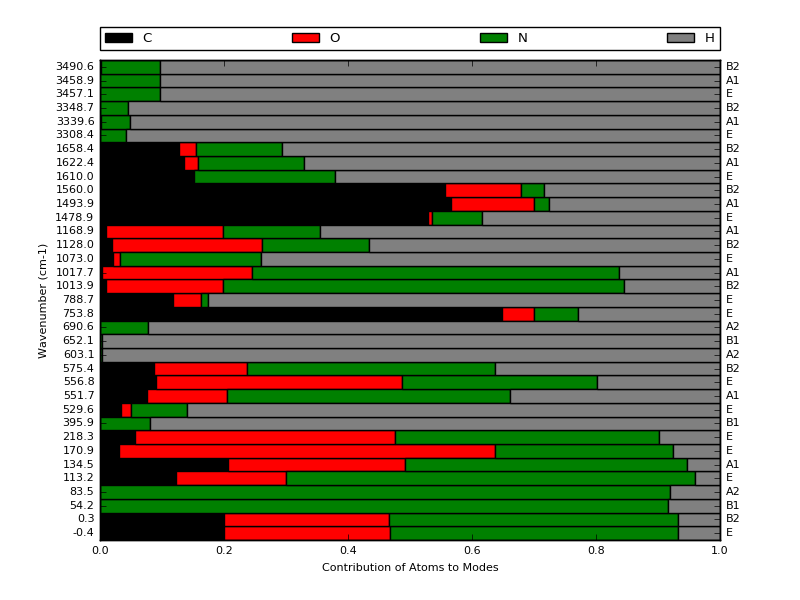
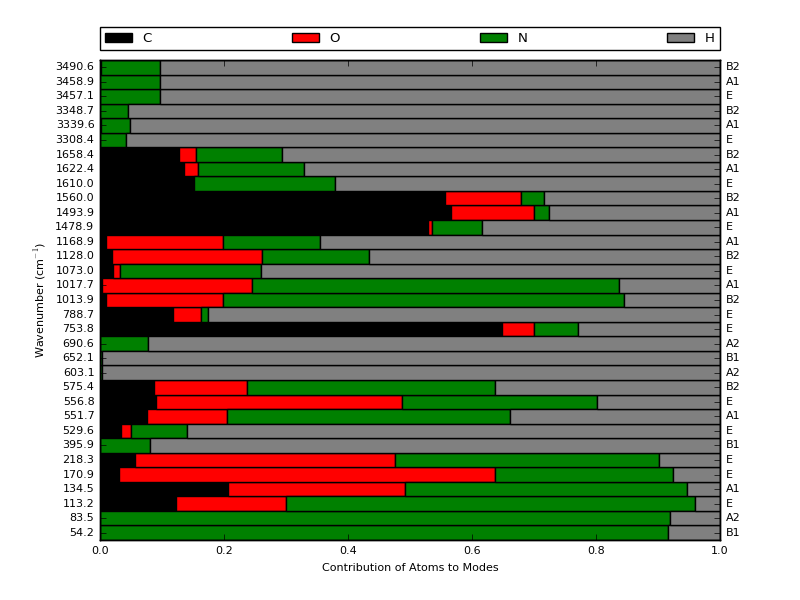
Neue Doc

diff --git a/ContributionsOfAtomsToModes/ContributionsOfAtomsToModes.py b/ContributionsOfAtomsToModes/ContributionsOfAtomsToModes.py
@@ -311,7 +311,7 @@ class AtomicContributionToModes:
 		ax1.set_xlim(0.0, 1.0)
 		ax1.set_xlabel('Contribution of Atoms to Modes')
 		if self.__factor==VaspToCm:
-			ax1.set_ylabel('Wavenumber (cm-1)')
+			ax1.set_ylabel('Wavenumber (cm$^{-1}$)')
 		elif self.__factor==VaspToTHz:
 			ax1.set_ylabel('Frequency (THz)')
 		elif self.__factor==VaspToEv:
